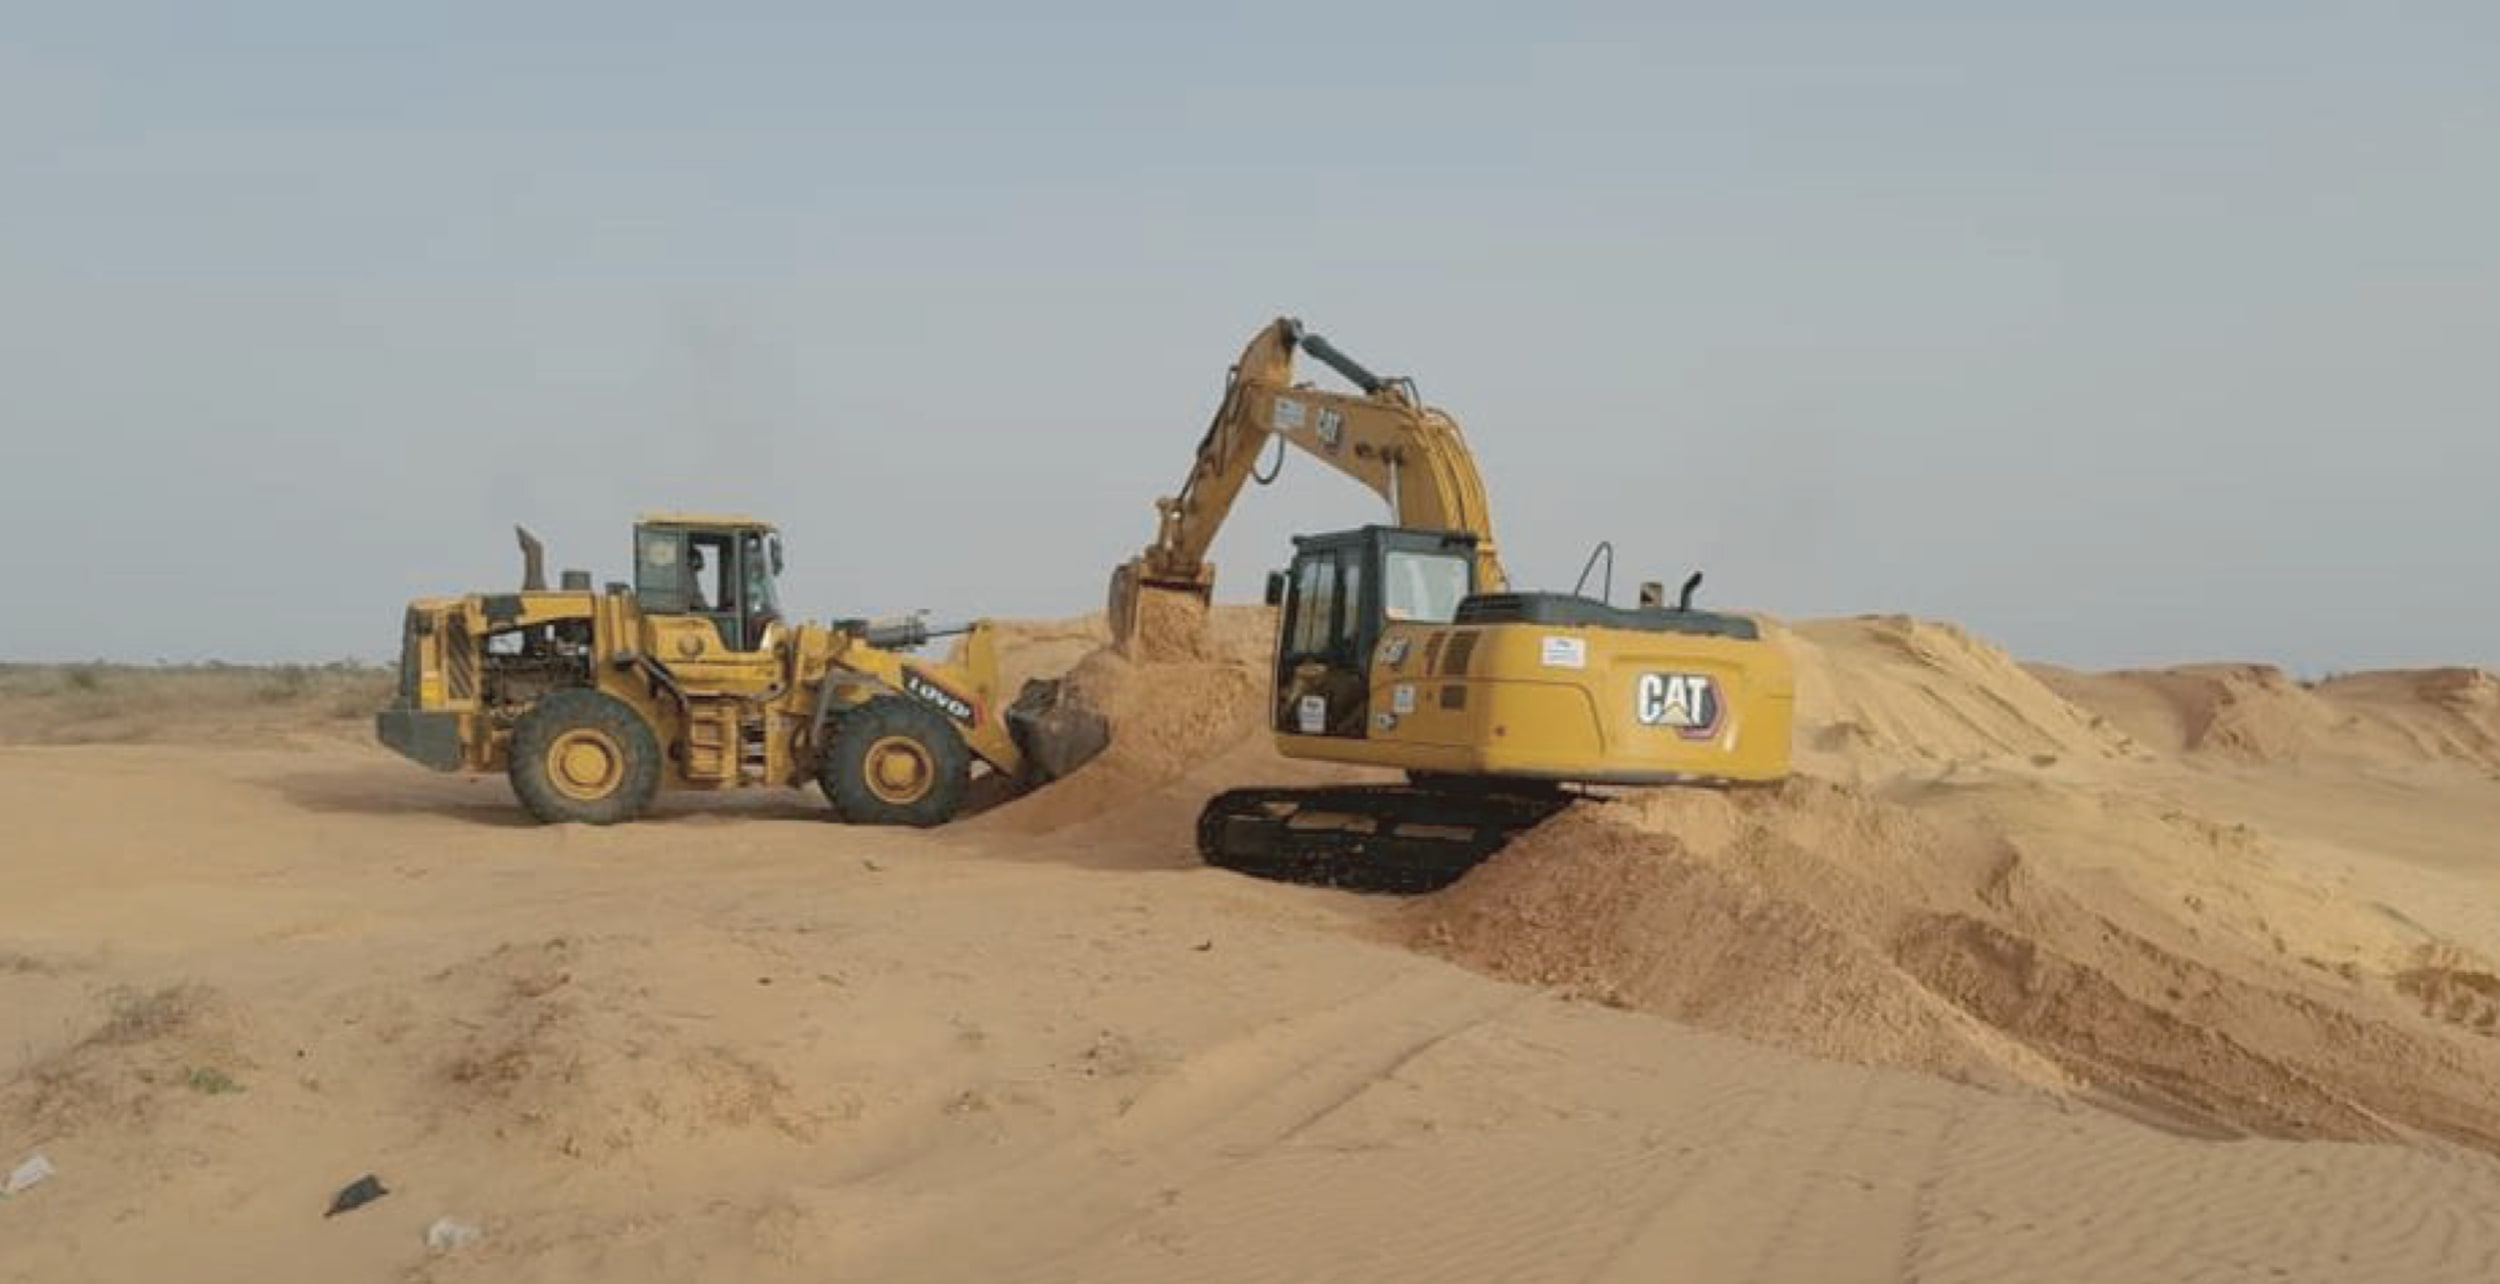
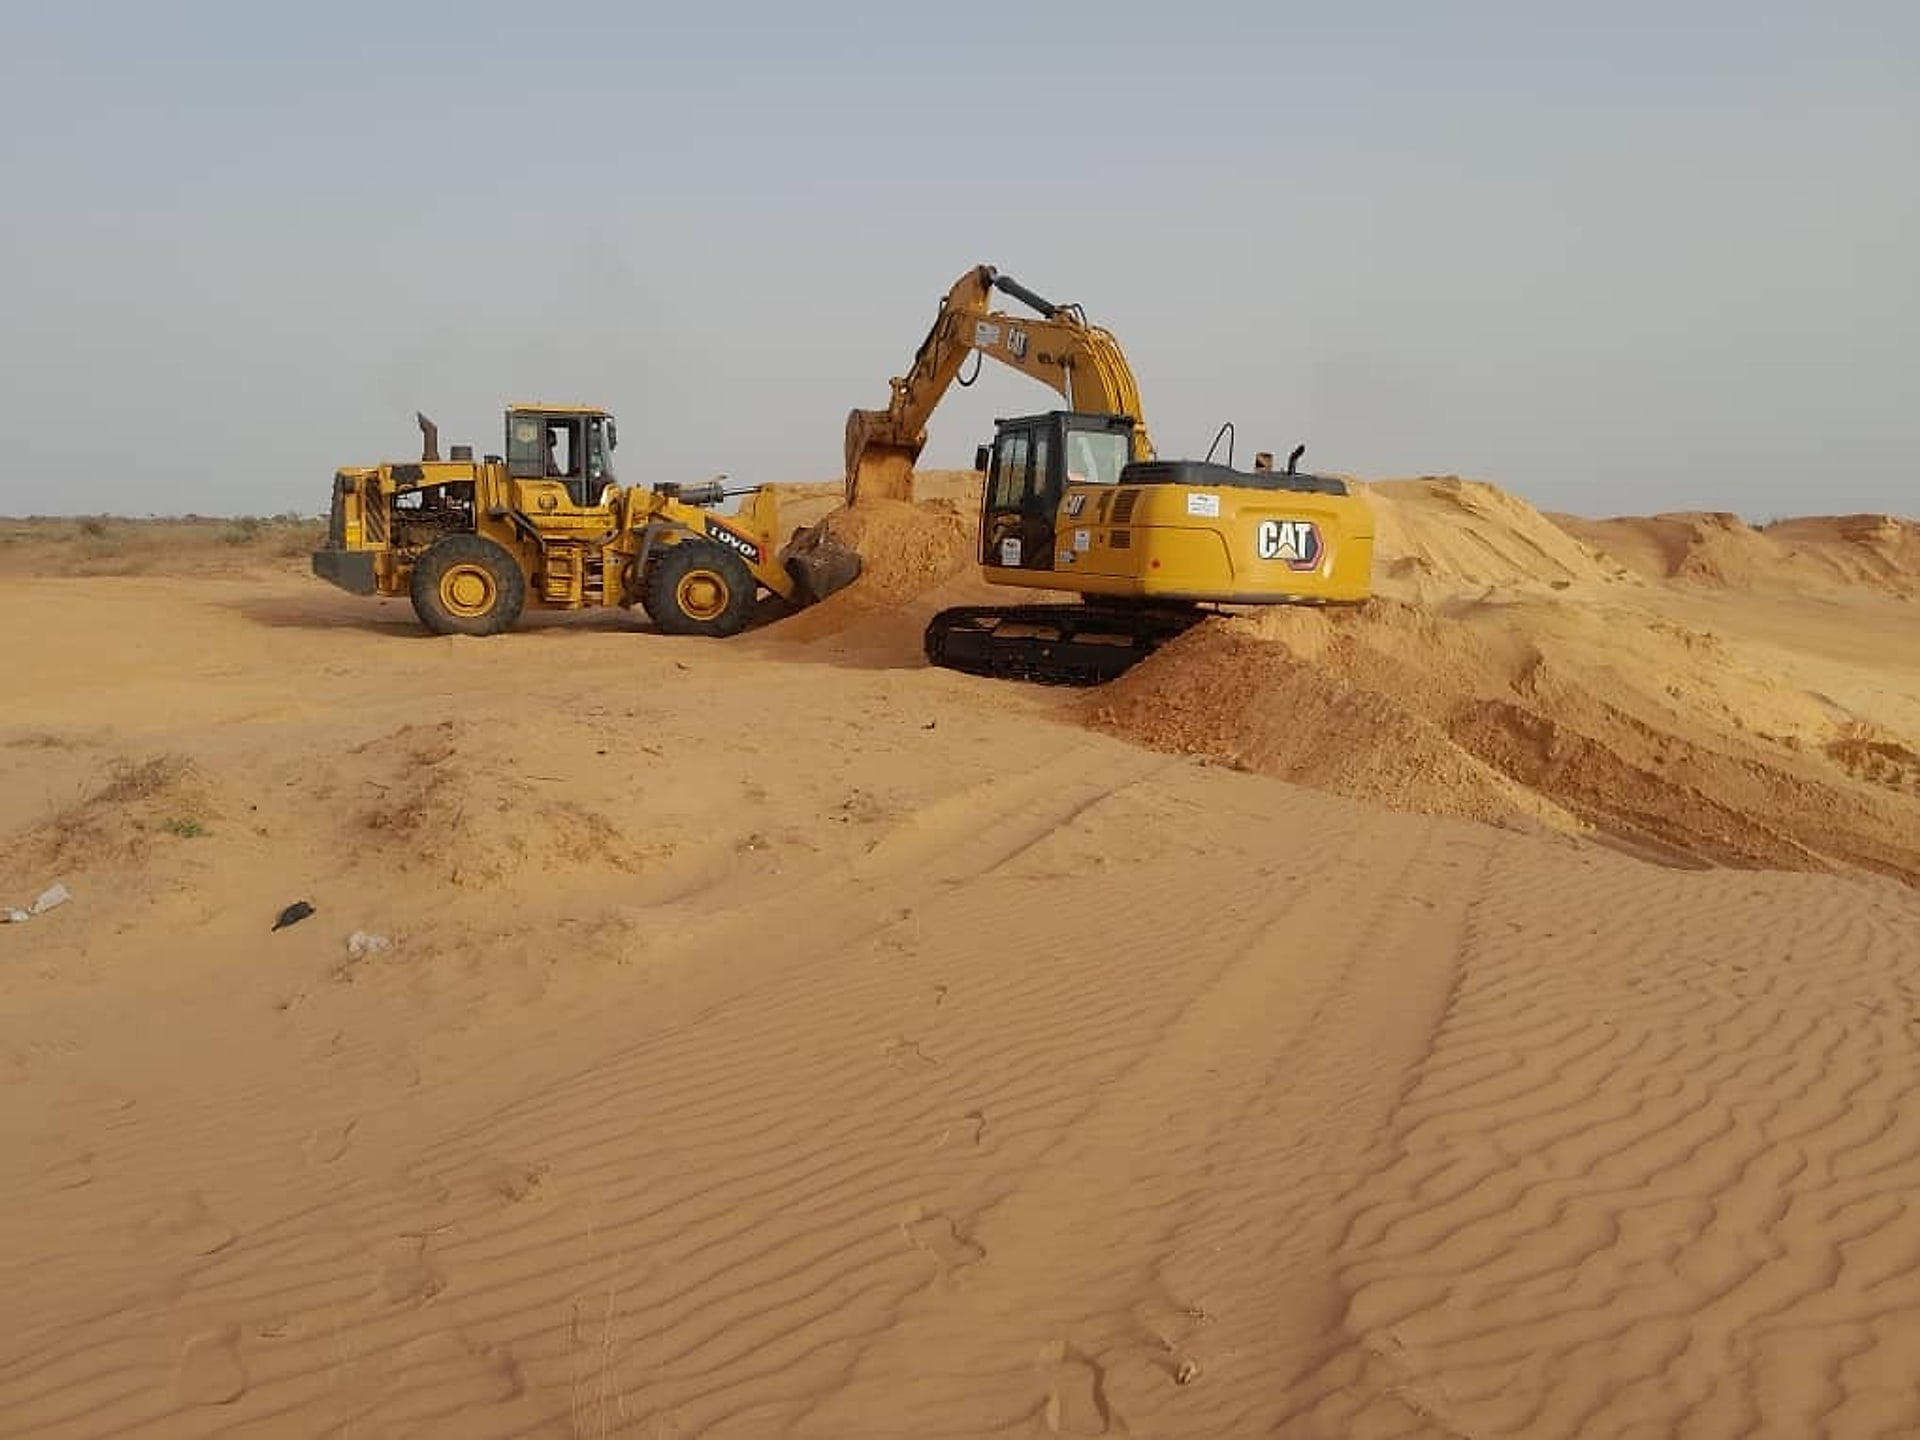
feat(accueil): nouvelle photo hero engins CAT et mise à jour 10 ans d'expérience (2016-2026)

diff --git a/app/entreprise/page.tsx b/app/entreprise/page.tsx
@@ -12,11 +12,11 @@ import { AppelFinal } from "@/components/accueil/AppelFinal";
 export const metadata: Metadata = {
   title: "L'entreprise",
   description:
-    "PARTENAIRE ENTREPRISE TRAVAUX SUARL : entreprise de BTP au Sénégal fondée en 2016, portée par une équipe de plus de 40 ans d'expérience cumulée.",
+    "PARTENAIRE ENTREPRISE TRAVAUX SUARL : entreprise de BTP au Sénégal fondée en 2016, forte de plus de 10 ans d'expérience.",
   alternates: { canonical: "/entreprise" },
   openGraph: {
     title: "L'entreprise | PET SUARL Sénégal",
-    description: "Entreprise de BTP tous corps d'état fondée en 2016, portée par une équipe de plus de 40 ans d'expérience cumulée au Sénégal.",
+    description: "Entreprise de BTP tous corps d'état fondée en 2016, forte de plus de 10 ans d'expérience au Sénégal.",
     url: "/entreprise",
     images: [{ url: "/images/chantiers/pilotage-chantier.jpg", width: 1376, height: 768, alt: "L'entreprise PET SUARL" }],
   },
@@ -49,7 +49,7 @@ const moyens = [
   { icone: "engins", titre: "Engins de terrassement", texte: "Pelles hydrauliques, chargeuses et niveleuses, visibles sur nos chantiers." },
   { icone: "local", titre: "Topographie", texte: "Implantation et contrôle des cotes au GPS, pour poser juste du premier coup." },
   { icone: "casque", titre: "Équipements de protection", texte: "Casques, gilets et chaussures de sécurité portés par nos équipes." },
-  { icone: "equipe", titre: "Personnel qualifié", texte: "Une équipe qui cumule plus de 40 ans d'expérience dans les travaux." },
+  { icone: "equipe", titre: "Personnel qualifié", texte: "Une équipe forte de plus de 10 ans d'expérience dans les travaux." },
 ] as const;
 
 export default function PageEntreprise() {
@@ -116,7 +116,7 @@ export default function PageEntreprise() {
             </p>
             <p className="mt-6 max-w-[34rem] cote text-[1.125rem] leading-relaxed text-blanc">
               Aujourd&apos;hui&nbsp;: {entreprise.domaines.length} domaines d&apos;expertise, {entreprise.clients.length} types de clients et
-              plus de 40 ans d&apos;expérience cumulée dans l&apos;équipe.
+              plus de 10 ans d&apos;expérience au service du BTP sénégalais.
             </p>
           </div>
           <div className="revele lg:col-span-5 lg:col-start-8">
@@ -260,7 +260,7 @@ export default function PageEntreprise() {
                 <div className="flex flex-wrap gap-4 pt-4 border-t border-blanc/15 text-xs uppercase tracking-wider text-blanc/75">
                   <span className="flex items-center gap-2">
                     <span className="size-2 rounded-full bg-jaune" />
-                    +40 ans d&apos;expérience cumulée
+                    +10 ans d&apos;expérience au Sénégal
                   </span>
                   <span className="flex items-center gap-2">
                     <span className="size-2 rounded-full bg-jaune" />

diff --git a/content/photos.ts b/content/photos.ts
@@ -99,8 +99,8 @@ export const photos = {
   // Photos d'origine de l'entreprise (bâche PET)
   terrassementEngins: {
     src: terrassementEngins,
-    alt: "Une chargeuse et une pelle hydraulique CAT terrassent un remblai de sable sur un chantier.",
-    focale: "58% 55%",
+    alt: "Pelle hydraulique Caterpillar et chargeuse en plein terrassement sur remblai de sable au Sénégal.",
+    focale: "50% 45%",
   },
   conduiteOuvrage: {
     src: conduiteOuvrage,
@@ -278,8 +278,8 @@ export const photos = {
   },
   vrdAsphalteBoulevard: {
     src: vrdAsphalteBoulevard,
-    alt: "Travaux d'enrobé bitumineux, bordures d'assainissement et aménagement de voirie urbaine.",
-    focale: "50% 50%",
+    alt: "Pelle hydraulique Caterpillar et chargeuse en plein terrassement sur remblai de sable pour voirie et réseaux divers (VRD) au Sénégal.",
+    focale: "50% 45%",
   },
 
   // Photos réelles issues du dossier client (ISDND Meckhé, supervision SETEC & voirie lotissement)

diff --git a/components/accueil/Chiffres.tsx b/components/accueil/Chiffres.tsx
@@ -7,10 +7,10 @@ import { Motif } from "@/components/ui/Motif";
 
 type Chiffre = { valeur: number; depart: number; suffixe?: string; libelle: string; picto: NomPicto };
 
-// Seuls chiffres autorisés : 2016, 40+, 5 domaines, 3 types de clients.
+// Seuls chiffres autorisés : 2016, 10+, 5 domaines, 3 types de clients.
 const chiffres: Chiffre[] = [
   { valeur: entreprise.fondation, depart: 1990, libelle: "Année de création, au Sénégal", picto: "creation" },
-  { valeur: 40, depart: 0, suffixe: "+", libelle: "Années d'expérience cumulée dans l'équipe", picto: "experience" },
+  { valeur: 10, depart: 0, suffixe: "+", libelle: "Ans d'expérience au service du BTP au Sénégal", picto: "experience" },
   { valeur: entreprise.domaines.length, depart: 0, libelle: "Domaines d'expertise, du bâtiment aux réseaux", picto: "domaines" },
   { valeur: entreprise.clients.length, depart: 0, libelle: "Types de clients : publics, industriels et privés", picto: "clients" },
 ];

diff --git a/components/accueil/MotDirecteur.tsx b/components/accueil/MotDirecteur.tsx
@@ -118,8 +118,8 @@ export function MotDirecteur() {
                 <p className="mt-1 cote text-[0.75rem] uppercase tracking-[0.08em] text-encre-douce">Année de fondation</p>
               </div>
               <div className="rounded-xl bg-white p-3.5 border border-nuit/5 shadow-sm">
-                <p className="titre text-[1.625rem] text-royal leading-none">40+ ans</p>
-                <p className="mt-1 cote text-[0.75rem] uppercase tracking-[0.08em] text-encre-douce">Expérience cumulée</p>
+                <p className="titre text-[1.625rem] text-royal leading-none">10+ ans</p>
+                <p className="mt-1 cote text-[0.75rem] uppercase tracking-[0.08em] text-encre-douce">D&apos;expérience au Sénégal</p>
               </div>
               <div className="rounded-xl bg-white p-3.5 border border-nuit/5 shadow-sm col-span-2 sm:col-span-1">
                 <p className="titre text-[1.625rem] text-jaune-profond leading-none">100 %</p>

diff --git a/content/site.ts b/content/site.ts
@@ -304,7 +304,7 @@ export const navigation: Rubrique[] = [
     id: "entreprise",
     titre: "L'entreprise",
     href: "/a-propos",
-    intro: "Une entreprise de BTP tous corps d'état, fondée en 2016 et portée par une équipe de plus de 40 ans d'expérience cumulée au Sénégal.",
+    intro: "Une entreprise de BTP tous corps d'état, fondée en 2016 et portée par une équipe forte de plus de 10 ans d'expérience au Sénégal.",
     liens: [
       { titre: "À propos de PET", description: "Histoire, mot de la direction et partenaires", href: "/a-propos", icone: "valeurs" },
       { titre: "Mot du Directeur", description: "Vision et engagements environnementaux", href: "/a-propos#mot-directeur", icone: "valeurs" },

diff --git a/app/carrieres/page.tsx b/app/carrieres/page.tsx
@@ -31,7 +31,7 @@ export const metadata: Metadata = {
 
 const atouts = [
   { icone: "casque", titre: "La sécurité d'abord", texte: "Équipements de protection et consignes partagées sur chaque chantier." },
-  { icone: "equipe", titre: "Des équipes expérimentées", texte: "Une équipe qui cumule plus de 40 ans d'expérience et transmet son savoir-faire." },
+  { icone: "equipe", titre: "Des équipes expérimentées", texte: "Une équipe forte de plus de 10 ans d'expérience qui transmet son savoir-faire." },
   { icone: "engins", titre: "Des moyens entretenus", texte: "Des équipements régulièrement mis à niveau pour travailler dans de bonnes conditions." },
 ] as const;
 

diff --git a/components/accueil/Carrieres.tsx b/components/accueil/Carrieres.tsx
@@ -23,7 +23,7 @@ export function Carrieres() {
               id="titre-carrieres"
               ton="sombre"
               titre="Construisez avec nous"
-              intro="Des femmes et des hommes de terrain, fiers de leur métier, dans une équipe qui cumule plus de 40 ans d'expérience."
+              intro="Des femmes et des hommes de terrain, fiers de leur métier, dans une équipe forte de plus de 10 ans d'expérience au Sénégal."
             />
             <div className="mt-9 flex flex-wrap gap-4">
               <BoutonLien href="/carrieres#candidature">Candidature spontanée</BoutonLien>

diff --git a/app/a-propos/page.tsx b/app/a-propos/page.tsx
@@ -27,7 +27,7 @@ const etapesHistoire = [
     annee: "2016",
     titre: "Fondation de l'entreprise",
     description:
-      "Création de PARTENAIRE ENTREPRISE TRAVAUX SUARL par des ingénieurs et techniciens chevronnés cumulant plus de 40 ans d'expérience dans les métiers du BTP, de l'hydraulique et du génie civil au Sénégal.",
+      "Création de PARTENAIRE ENTREPRISE TRAVAUX SUARL par des ingénieurs et techniciens chevronnés cumulant plus de 10 ans d'expérience dans les métiers du BTP, de l'hydraulique et du génie civil au Sénégal.",
     icone: "histoire",
   },
   {

diff --git a/components/accueil/Hero.tsx b/components/accueil/Hero.tsx
@@ -14,9 +14,9 @@ const diapos: Diapo[] = [
   {
     photo: "vrdAsphalteBoulevard",
     onglet: "Voirie et Réseaux Divers",
-    legende: "Aménagement d'artères urbaines, voiries bitumées et réseaux divers (VRD) aux normes internationales.",
+    legende: "Terrassement lourd de plateformes, aménagement de voiries et réseaux divers (VRD) aux normes internationales.",
     href: "/savoir-faire/travaux-publics-vrd",
-    origine: "50% 50%",
+    origine: "50% 45%",
   },
   {
     photo: "immeubleDakar",

diff --git a/components/ui/EnTetePage.tsx b/components/ui/EnTetePage.tsx
@@ -25,8 +25,8 @@ type Props = {
 const atoutsDefaut = [
   {
     icone: "casque",
-    titre: "+40 ans",
-    desc: "d'expérience cumulée",
+    titre: "+10 ans",
+    desc: "d'expérience au Sénégal",
   },
   {
     icone: "engins",

diff --git a/PRODUCT.md b/PRODUCT.md
@@ -25,7 +25,7 @@ Site vitrine de PARTENAIRE ENTREPRISE TRAVAUX SUARL (PET), entreprise de BTP de 
 
 ## Positioning
 
-Une entreprise « tous corps d'état » qui couvre à la fois le bâtiment, les travaux publics et VRD, l'hydraulique, l'assainissement et le génie civil, portée par une équipe cumulant plus de 40 ans d'expérience. Le concept de marque est « La poignée de main qui bâtit » : partenariat, confiance, solidité.
+Une entreprise « tous corps d'état » qui couvre à la fois le bâtiment, les travaux publics et VRD, l'hydraulique, l'assainissement et le génie civil, forte de 10 ans d'expérience (créée en 2016). Le concept de marque est « La poignée de main qui bâtit » : partenariat, confiance, solidité.
 
 ## Operating Context
 
@@ -34,7 +34,7 @@ Le visiteur compare plusieurs entreprises, souvent avant un appel d'offres ou un
 ## Capabilities and Constraints
 
 - Langue : français, structure prête pour l'anglais.
-- Chiffres autorisés seulement : 2016, 40+ ans d'expérience cumulée, 5 domaines, 3 types de clients.
+- Chiffres autorisés seulement : 2016, 10+ ans d'expérience, 5 domaines, 3 types de clients.
 - Aucun client, projet, certification ou chiffre inventé. Plus aucune donnée d'exemple : les réalisations sont des galeries de photos réelles, les actualités sont remplacées par « Votre projet » et les offres d'emploi par les métiers de chantier.
 - Photos de chantier en basse résolution, extraites d'une bâche : toujours cadrées et voilées, jamais en plein écran net.
 - Accessibilité AA, `prefers-reduced-motion`, navigation clavier du méga-menu, rendu vérifié à 360, 768, 1024 et 1440 px.
